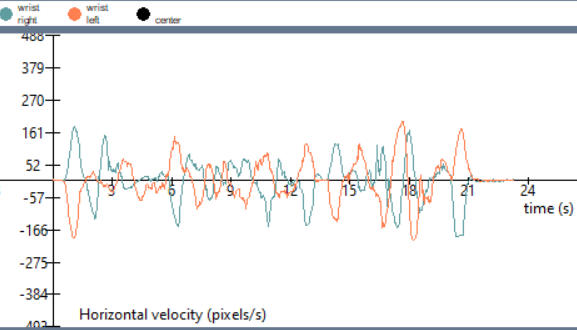
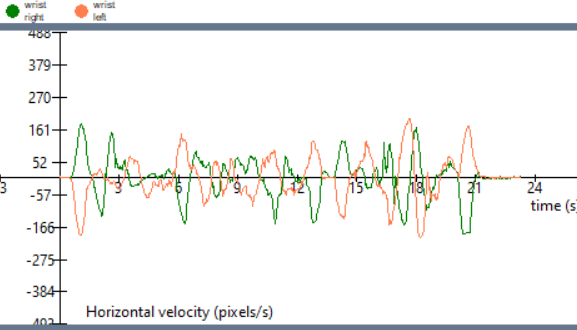
bug fixes

Changed region(s): [[0.0, 0.0, 1.0, 1.0]]

diff --git a/simple_gui.py b/simple_gui.py
@@ -16,7 +16,7 @@ import random
 
 graph_size = (475, 475)
 image_size = (475, 475)
-colors = ["red","coral", "DarkOrange1", "goldenrod", "gold", "green", "aquamarine4", "blue", "purple", "brown", "grey", "black", "cadet blue", "cornflower blue", "DeepPink", "olive drab"]
+colors = ["green", "coral", "aquamarine4", "DarkOrange1", "blue", "goldenrod", "purple", "brown", "grey", "gold", "black", "red", "cadet blue", "cornflower blue", "DeepPink", "olive drab"]
 window = None
[1 lines of base64/hex data omitted]
 
@@ -305,7 +305,7 @@ def draw_legend(graph, labels, colors):
         name = labels[i].replace("_", "\n")
         graph.draw_text(name, (25 + i*55, 0.5), font=("Arial", 6), text_location = sg.TEXT_LOCATION_BOTTOM_LEFT, color="black")
 
-def create_basic_plot(graph, data, data_labels, legend, axes_labels):
+def create_basic_plot(graph, data, data_labels, legend, axes_labels, line_plot):
     #ax_lims order = [x_max_0, x_max_1, y_max_0, y_max_1, x_min_0, x_min_1, y_min_0, y_min_1]
     ax_lims = [-10000, -10000, -10000, -10000, 10000, 10000, 10000, 10000]
     for key in range(len(data)):
@@ -327,19 +327,25 @@ def create_basic_plot(graph, data, data_labels, legend, axes_labels):
 
     
     dot_size = draw_axes(graph, ax_lims, axes_labels)
-    color_select = random.sample(colors, len(data))
-    for key in range(len(data)):
-        for point in range(len(data[key])):
-            graph.draw_point((data[key][point][0], data[key][point][1]), dot_size, color=color_select[key])
+    #color_select = random.sample(colors, len(data))
+    if line_plot:
+        for key in range(len(data)):
+            line_color = colors[key]
+            for point in range(len(data[key])-1):
+                graph.draw_line((data[key][point][0], data[key][point][1]), (data[key][point+1][0], data[key][point+1][1]), width=dot_size, color=line_color)
+    else:
+        for key in range(len(data)):
+            for point in range(len(data[key])):
+                graph.draw_point((data[key][point][0], data[key][point][1]), dot_size, color=colors[key])
 
-    draw_legend(legend, data_labels, color_select)
+    draw_legend(legend, data_labels, colors[:len(data)])
 
-def create_two_plots(graphs, data, data_labels, legend, axes_labels, box_n_whisk):
-    print(np.array(data).shape)
+def create_two_plots(graphs, data, data_labels, legend, axes_labels, box_n_whisk, line_plot):
+    
     if box_n_whisk:
         print("WARNING: This graph is not yet supported")
     else:
-        color_select = random.sample(colors, len(labels))
+        #color_select = random.sample(colors, len(labels))
         
         ax_lims = [-10000, -10000, -10000, -10000, 10000, 10000, 10000, 10000]
         for key in range(len(data)):
@@ -374,14 +380,22 @@ def create_two_plots(graphs, data, data_labels, legend, axes_labels, box_n_whisk
         dot_size = draw_axes(graphs[0], ax_lims, axes_labels[0])
         dot_size = draw_axes(graphs[1], ax_lims, axes_labels[1])
 
-        for key in range(len(data)):
-            plot_data = data[key]
-            for plot in range(len(plot_data)):
-                for point in range(len(plot_data[plot])-1):
-                    graphs[plot].draw_line((plot_data[plot][point][0], plot_data[plot][point][1]), (plot_data[plot][point+1][0], plot_data[plot][point+1][1]), color=color_select[key], width=dot_size)
-
+        if line_plot:
+            for key in range(len(data)):
+                plot_data = data[key]
+                line_color = colors[key]
+                for plot in range(len(plot_data)):
+                    for point in range(len(plot_data[plot])-1):
+                        graphs[plot].draw_line((plot_data[plot][point][0], plot_data[plot][point][1]), (plot_data[plot][point+1][0], plot_data[plot][point+1][1]), color=line_color, width=dot_size)
+        else:
+            for key in range(len(data)):
+                plot_data = data[key]
+                line_color = colors[key]
+                for plot in range(len(plot_data)):
+                    for point in range(len(plot_data[plot])):
+                        graphs[plot].draw_point((plot_data[plot][point][0], plot_data[plot][point][1]), dot_size, color=line_color)
     
-        draw_legend(legend, data_labels, color_select)
+        draw_legend(legend, data_labels, colors[:len(data)])
 
 def process_video(filename):
     #assuming openpose folder is in the movementmetrics folder
@@ -396,7 +410,7 @@ def read_frame_files(file_loc):
         file_list = os.listdir(file_loc+'/video_frames')
     except:
         file_list = []
-    frames = [(file_loc+'/video_frames/'+val) for val in file_list if val.lower().endswith((".jpg"))]
+    frames = [(file_loc+'/video_frames/'+val) for val in file_list if val.lower().endswith((".jpg")) or val.lower().endswith((".png"))]
         
     return frames
 
@@ -428,8 +442,8 @@ def display_metrics(data, labels, plot_type):
     if plot_type == "centroid of motion":
         np_data = np.array(data[0])
         spread = mm.getSpread(np_data[:,0], np_data[:,1])
-        spread_txt = "Data spread: " + str(round(spread,2))
-        avg_txt = "Average centroid value: ( "+str(round(data[1][0][0],2))+", "+str(round(data[1][0][1],2))+" )"
+        spread_txt = "Data spread: \n" + str(round(spread,2))
+        avg_txt = "Average centroid value: \n( "+str(round(data[1][0][0],2))+", "+str(round(data[1][0][1],2))+" )"
         window['-COMPUTED METRICS-'].update(value=spread_txt + "\n" + avg_txt)
     
     elif plot_type == "point cloud" or plot_type == "distance from center" or plot_type == "normalized distance from center":
@@ -509,7 +523,7 @@ def display_metrics(data, labels, plot_type):
             quart3_y = mm.getQuartile(np_data[:,1], 3)
             irc_txt = "IQR: " + str(round(quart3_y, 2)) + " - " + str(round(quart1_y, 2)) + " = " + str(round(quart3_y-quart1_y,2))
             
-            total_track_point_text = name + "- \n" + total_track_point_text + avg_txt + "\n" + irc_txt + "\n"
+            total_track_point_text = total_track_point_text + name + "- \n" + avg_txt + "\n" + irc_txt + "\n"
 
             if "left" in name:
                 left_avg.append(avg)
@@ -662,16 +676,18 @@ if __name__ == '__main__':
 
             window["-PLOT TITLE-"].update(value=plot_type[0])
             current_plot_type = plot_type[0]
-            if plot_type[0] == "point cloud" or plot_type[0] == "centroid of motion" or plot_type[0] == "distance from center" or plot_type[0] == "normalized distance from center" or plot_type[0] == "speed over time":
-                
+            if plot_type[0] == "point cloud" or plot_type[0] == "centroid of motion" or plot_type[0] == "distance from center" or plot_type[0] == "normalized distance from center":
                 window["-PLOT CANVAS 2-"].update(visible=False)
                 window["-PLOT CANVAS-"].set_size(graph_size)
-                create_basic_plot(graph, data, labels, window["-PLOT LEGEND-"], ax_labels)
-                
+                create_basic_plot(graph, data, labels, window["-PLOT LEGEND-"], ax_labels, line_plot=False)
+            elif plot_type[0] == "speed over time":
+                window["-PLOT CANVAS 2-"].update(visible=False)
+                window["-PLOT CANVAS-"].set_size(graph_size)
+                create_basic_plot(graph, data, labels, window["-PLOT LEGEND-"], ax_labels, line_plot=True)
             elif plot_type[0] == "position spectrum" or plot_type[0] == "velocity over time":
                 window["-PLOT CANVAS 2-"].update(visible=True)
                 window["-PLOT CANVAS-"].set_size((graph_size[0], graph_size[1]/2-3))
-                create_two_plots([graph, graph2], data, labels, window["-PLOT LEGEND-"], ax_labels, plot_type[0] == "position spectrum")
+                create_two_plots([graph, graph2], data, labels, window["-PLOT LEGEND-"], ax_labels, plot_type[0] == "position spectrum", line_plot=True)
             
             if len(frames) > 0:
                 window["-SCRUB BAR-"].update(visible=True, range=(0, len(frames)-1))
@@ -691,17 +707,20 @@ if __name__ == '__main__':
                     box = (widget.winfo_rootx() + widget.winfo_width() / 2.2, widget.winfo_rooty() + 30, widget.winfo_rootx() + 1.67 * widget.winfo_width(), widget.winfo_rooty() + 1.66 * widget.winfo_height() - 30)
                     grab = ImageGrab.grab(bbox=box)
                     grab.save(values["-PLOT NAME-"] + ".png")
+                    print("Saved double canvas 1")
 
                     widget = window["-PLOT CANVAS 2-"].Widget
                     box = (widget.winfo_rootx() + widget.winfo_width() / 2.2, widget.winfo_rooty() + 0.52 * widget.winfo_height(), widget.winfo_rootx() + 1.67 * widget.winfo_width(), widget.winfo_rooty() + 1.78 * widget.winfo_height())
                     grab = ImageGrab.grab(bbox=box)
                     grab.save(values["-PLOT NAME-"] + "_1.png")
+                    print("Saved double canvas 2")
                 else:
                     widget = window["-PLOT CANVAS-"].Widget
                     # NOTE: these are magic numbers, no idea why only these work
                     box = (widget.winfo_rootx() + widget.winfo_width() / 2.2, widget.winfo_rooty() + 30, widget.winfo_rootx() + 1.67 * widget.winfo_width(), widget.winfo_rooty() + 1.36 * widget.winfo_height())
                     grab = ImageGrab.grab(bbox=box)
                     grab.save(values["-PLOT NAME-"] + ".png")
+                    print("Saved single canvas plot")
 
                 window["-PLOT NAME-"].update("")
             except:
